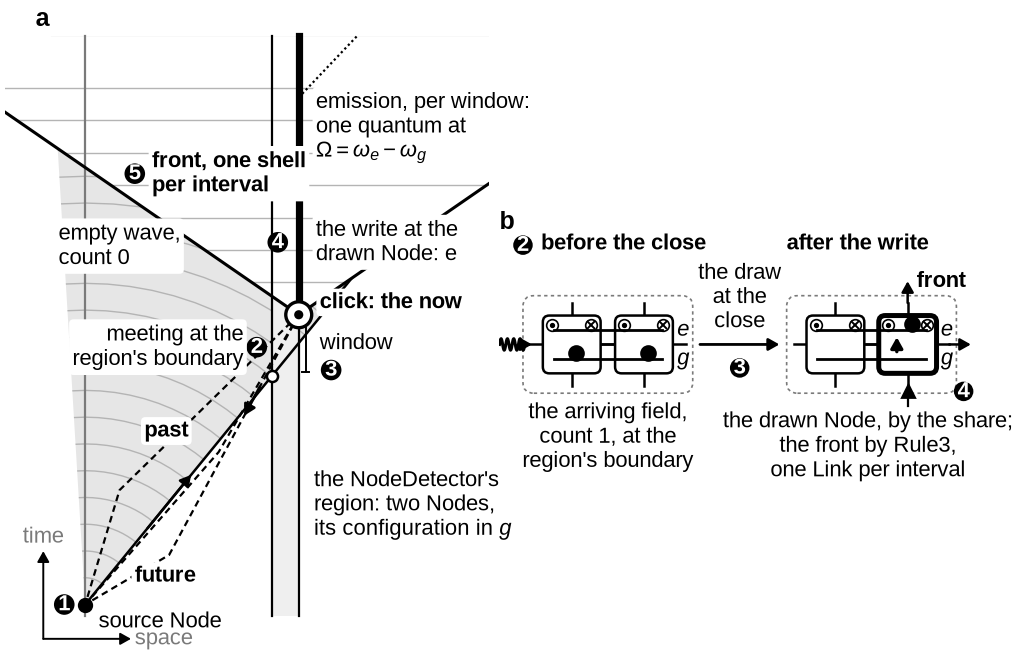
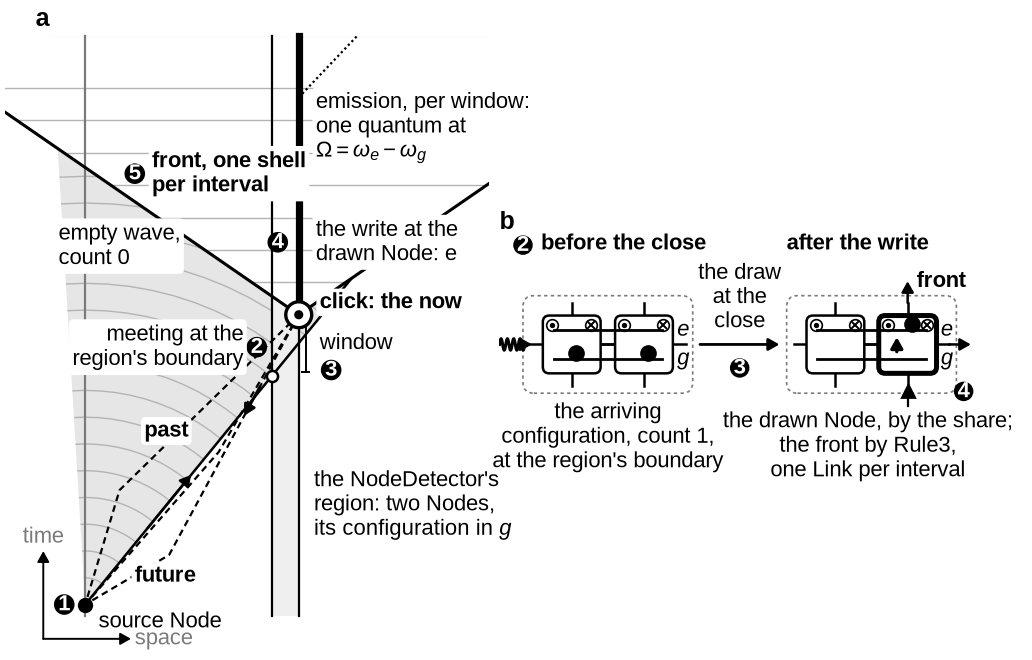
The click figure's arriving configuration: the glossary's word in place of "field" in the drawn label, the uncalled rows and the docstring, the source Node named in the docstring; the three figure files regenerated
Claude-Session: https://claude.ai/code/session_01EK19UKr4ARs4MVajaWCW96

Changed region(s): [[0.4651, 0.6061, 0.7132, 0.7273]]

diff --git a/paper/general_formula/click_body.py b/paper/general_formula/click_body.py
@@ -1,7 +1,7 @@
 """The click at a NodeDetector, drawn from the definitions, by no run of the engine, in black and grey.
 
 Two panels side by side at the text width of Springer's sn-jnl (131 mm), every lettering 8 pt at the printed
-size. (a) Space and time: the arriving record runs forward from its root, every path at once; the click is the
+size. (a) Space and time: the arriving configuration runs forward from its source Node, every path at once; the click is the
 meeting of the forward record with the transition read backward from the click; the write at the drawn Node;
 the front, one shell per interval, erases the absorbed record inside the click's causal cone, the empty wave
 beyond it at count 0. (b) The NodeDetector's region before the window's close and after the one write at the
@@ -406,7 +406,7 @@ def region(ax: Axes, x1: float, cy: float, s: float, upper: bool, drawn: bool) -
 
 
 def wave(ax: Axes, x1: float, x2: float, y: float, color: str, n: int = 4, amp: float = 0.16) -> None:
-    """A short wavy line, the field's quantum on its way."""
+    """A short wavy line, the configuration's quantum on its way."""
     xs = [x1 + (x2 - x1) * i / 60 for i in range(61)]
     ys = [y + amp * math.sin(2 * math.pi * n * (x - x1) / (x2 - x1)) for x in xs]
     ax.plot(xs, ys, color=color, lw=1.1, zorder=5)
@@ -430,7 +430,7 @@ def the_region(ax: Axes) -> None:
     ax.text(
         (xa + xb) / 2,
         y - s / 2 - 0.75,
-        "the arriving field,\ncount 1, at the\nregion's boundary",
+        "the arriving\nconfiguration, count 1,\nat the region's boundary",
         color=BLUE,
         ha="center",
         va="top",
@@ -479,7 +479,7 @@ def the_region(ax: Axes) -> None:
 
 
 def the_hole(ax: Axes) -> None:
-    """(c) The absorption's write at the drawn Node: one comparison of the field's booked share there against its own
+    """(c) The absorption's write at the drawn Node: one comparison of the configuration's booked share there against its own
     quantum W_rec; the sparse Node zeroed by the face Rule3 presents, the dense record undepleted with its count in
     the books (the advisor's words of 2026-10-04, #1793 comment 5985040913)."""
     ax.text(-0.3, 12.5, "c", ha="left", va="top", fontweight="bold", fontsize=9)
@@ -559,7 +559,7 @@ def the_books(ax: Axes) -> None:
     """(d) The books in whole numbers, the click line to the file and the declaration."""
     ax.text(-0.3, 6.85, "d", ha="left", va="top", fontweight="bold", fontsize=9)
     rows = (
-        ("the arriving field's count", "1", "0"),
+        ("the arriving configuration's count", "1", "0"),
         ("its levels and remainder at the drawn Node", "$v$, $b$, $r$", "0, 0, 0"),
         ("the NodeDetector's configuration, its parts $g$ / $e$", "1 / 0", "0 / 1"),
     )
